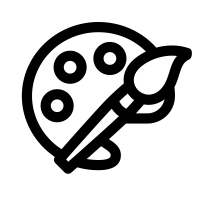
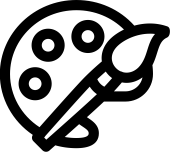
feat: adicionada ferramente de "borracha" que seleciona a cor padrão do pixel

diff --git a/script.js b/script.js
@@ -8,8 +8,7 @@ const board = document.getElementById('board');
 const palette = document.getElementById('palette');
 const userPalette = document.getElementById('user-palette');
 const selecColor = document.getElementById('select-color');
-const salver = document.getElementById('save');
-const caarregar = document.getElementById('load');
+const eraser = document.getElementById('eraser');
 
 const size = () => {
   const size = parseInt(inputSizeValue.innerText);
@@ -17,20 +16,24 @@ const size = () => {
 
 }
 
-let color = 'black';
-
 const clearBoard = () => {
   document.querySelectorAll('.pixel').forEach((pixel) => pixel.remove());
 }
 
-const paint = ({ target }) => {
-  target.style.backgroundColor = color;
+const paint = (event) => {
+  const { target } = event;
+  if (event.button === 0) {
+    target.style.backgroundColor = color;
+  } else if (event.button === 3) {
+    target.style.backgroundColor = 'rgb(61, 61, 61)';
+  }
+
 }
 
 const generateBoard = () => {
   clearBoard();
   board.style.setProperty('--size', inputSizeValue.innerText)
-  for(let index = 0; index < size() * size() ; index +=1) {
+  for (let index = 0; index < size() * size(); index += 1) {
     const element = document.createElement('div');
     element.className = 'pixel';
     element.addEventListener('dragover', paint);
@@ -45,20 +48,36 @@ const generateRandomColor = () => {
 }
 const getColor = (event) => {
   const { target } = event;
-  console.log(event.button)
-  if(event.button === 0) {
+  if (event.button === 0) {
     color = target.style.backgroundColor;
   } else if (event.button === 2) {
     target.style.backgroundColor = color;
   }
 }
 
+const getPaletteColor = ({ target }) => {
+  const newColor = target.style.backgroundColor;
+  sample.style.backgroundColor = newColor;
+  selecColor.classList.add('select');
+}
+
+const select = ({ target }) => {
+  const select = document.querySelectorAll('.select');
+  if (select.length > 0) {
+    select.forEach((element) => {
+      element.classList.remove('select')});
+    return target.classList.add('select');
+  }
+  target.classList.add('select');
+ }
+
 const generatepalette = () => {
-  for(let index = 0; index < 24; index +=1) {
+  for (let index = 0; index < 24; index += 1) {
     const element = document.createElement('div');
     element.className = 'palette';
     element.style.backgroundColor = `rgb(${generateRandomColor()}, ${generateRandomColor()}, ${generateRandomColor()})`
     element.addEventListener('mousedown', getColor);
+    element.addEventListener('click', getPaletteColor);
     userPalette.appendChild(element);
   }
 }
@@ -72,18 +91,28 @@ const changeInputSizeValue = () => {
 const changeSampleBackgroundColor = () => {
   const newColor = inputColor.value;
   sample.style.backgroundColor = newColor;
-  selecColor.style.border = 'rgb(255, 0, 0) 1px solid';
+  selecColor.style.boxShadow = '';
 }
 
 const resetBoard = () => {
   inputSize.value = 05;
-  inputSizeValue.innerText = 05;
   generateBoard(size());
 }
-board.addEventListener('contextmenu', event => event.preventDefault());
-userPalette.addEventListener('contextmenu', event => event.preventDefault());
-selecColor.addEventListener('click', () => selecColor.style.borderColor = 'rgb(0, 255, 0)')
-sample.addEventListener('click', getColor)
+
+const selectEraser = (event) => {
+  sample.style.backgroundColor = 'rgb(61, 61, 61)';
+  const select = document.querySelectorAll('.select');
+  if (select.length > 0) {
+    select.forEach((element) => {
+      element.classList.remove('select')});
+    }
+}
+
+eraser.addEventListener('click', selectEraser)
+board.addEventListener('contextmenu', (event) => event.preventDefault())
+userPalette.addEventListener('contextmenu', (event) => event.preventDefault())
+selecColor.addEventListener('click', select, () => selecColor.classList.add('select'))
+sample.addEventListener('click', getColor, select)
 clear.addEventListener('click', resetBoard);
 inputSize.addEventListener('input', changeInputSizeValue);
 inputColor.addEventListener('input', changeSampleBackgroundColor, getColor);

diff --git a/style.css b/style.css
@@ -4,7 +4,7 @@
 }
 
 :root {
-  --main-color: rgb(74, 51, 51);
+  --main-color: rgb(39, 39, 39);
   --secudary-color: rgb(188, 252, 201);
   --last-color: rgb(126, 217, 87);
 }
@@ -89,7 +89,6 @@ header {
 #select-color {
   width: 40px;
   height: 40px;
-  border: rgb(255, 0, 0) 1px solid;
 }
 
 #input-size-value {
@@ -103,6 +102,7 @@ header {
   justify-content: center;
   align-items: center;
   padding-top: 2.5rem;
+  flex-direction: column;
 }
 
 #input-color {
@@ -110,8 +110,12 @@ header {
 }
 
 #palette-ico {
-  width: 70px;
+  width: 64px;
   filter: invert(100%);
+}
+
+#eraser {
+  width: 58px;
 }
 
 #board {
@@ -134,4 +138,9 @@ header {
 
 #main-board-container{ 
   display: flex;
+}
+
+.select {
+  box-shadow: rgb(126, 217, 87) 0 10px 6px -6px
+
 }

diff --git a/index.html b/index.html
@@ -25,11 +25,16 @@
 			</div>
 			<div>
 				<div id="UI">
-					<input type="color" id="input-color" aria-label="Insira a cor desejado.">
 					<div class="sample" id="select-color"></div>
-					<label for="input-color">
-						<img id="palette-ico" src="./src/palette.png" alt="paleta de cores">
-					</label>
+					<div>
+						<label for="input-color">
+							<img id="palette-ico" src="./src/palette.png" alt="paleta de cores">
+							<input type="color" id="input-color" aria-label="Insira a cor desejado.">
+						</label>
+						<label for="eraser">
+							<img src="./src/eraser.png" alt="Borracha" id="eraser">
+						</label>
+					</div>
 				</div>
 		</aside>
 		<main id="board-container">
